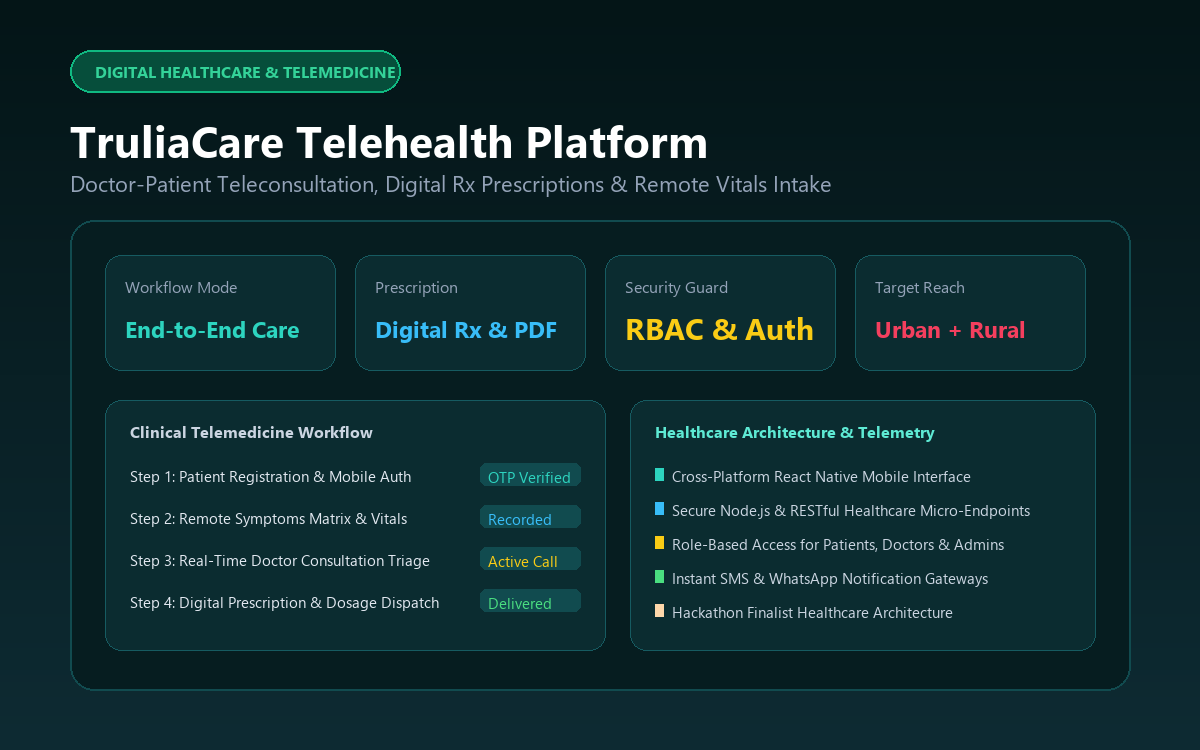
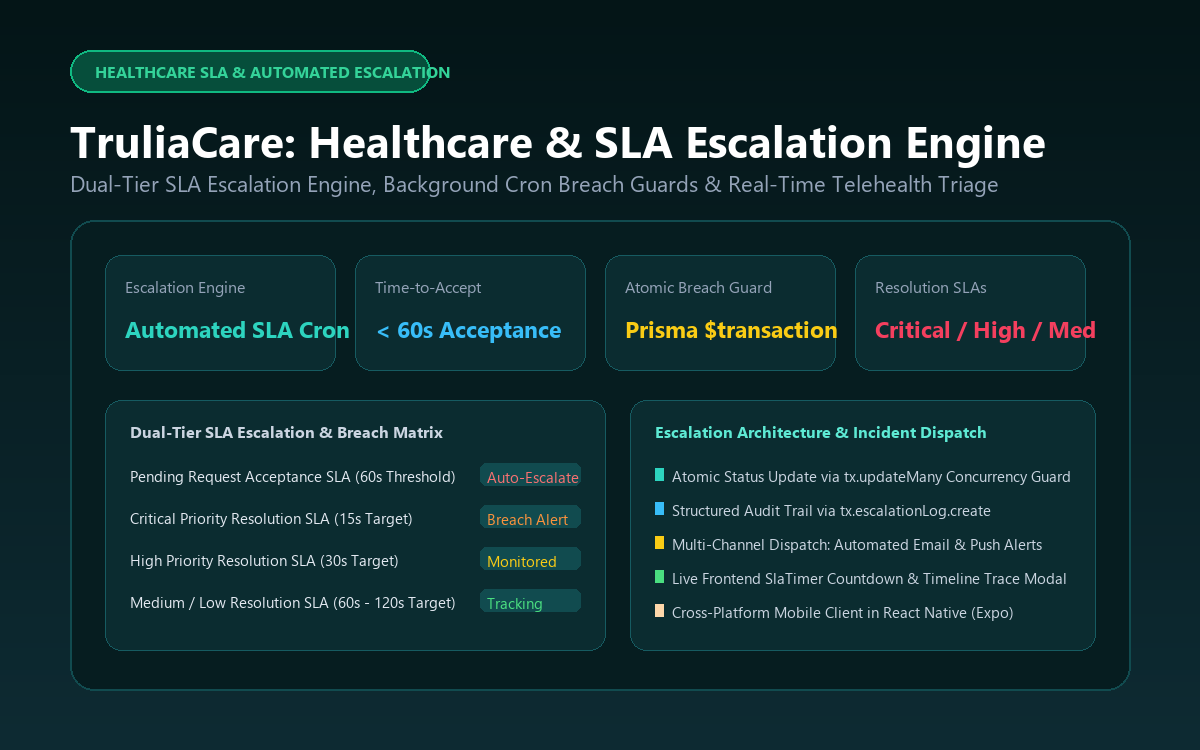
feat(truliacare): showcase automated dual-tier SLA escalation engine and background breach job

diff --git a/frontend/src/pages/ProjectsPage.tsx b/frontend/src/pages/ProjectsPage.tsx
@@ -97,12 +97,12 @@ const REPO_REGISTRY: Record<string, RepoMeta> = {
     image: citywidePhoto,
   },
   TruliaCare_Appathon: {
-    title: 'TruliaCare Telehealth Platform',
-    category: 'Digital Healthcare',
+    title: 'TruliaCare: Telehealth & Automated SLA Escalation Engine',
+    category: 'Healthcare & SLA Escalation',
     tier: 1,
-    description: 'Telehealth consultation and patient monitoring application featuring real-time doctor-patient workflows, medical prescription generation, and appointment triage.',
-    tech: ['React Native', 'TypeScript', 'Node.js', 'REST APIs', 'Healthcare Telemetry'],
-    badge: 'Healthcare App',
+    description: 'Telehealth and emergency response platform featuring an automated dual-tier SLA escalation engine. Runs background cron breach jobs, atomic Prisma $transactions with optimistic concurrency guards, multi-channel email/push dispatch, and live SlaTimer countdown widgets.',
+    tech: ['Dual-Tier SLA Engine', 'Background Cron Jobs', 'Prisma Transactions', 'React Native (Expo)', 'Node.js', 'Audit Logging'],
+    badge: 'Automated Escalation',
     image: truliacarePhoto,
   },
   'Credit-Score-Invisibility-Farmer': {

diff --git a/scripts/create_remaining_thumbnails.py b/scripts/create_remaining_thumbnails.py
@@ -108,7 +108,7 @@ for k, (spec, col) in enumerate(city_specs):
 save_dual(im_city, 'citywide_surveillance')
 
 # ══════════════════════════════════════════════════════════════════
-# 2. TRULIACARE TELEHEALTH PLATFORM
+# 2. TRULIACARE TELEHEALTH & AUTOMATED ESCALATION PLATFORM
 # ══════════════════════════════════════════════════════════════════
 im_trulia = Image.new('RGB', (W, H), color='#041517')
 d_trulia = ImageDraw.Draw(im_trulia)
@@ -120,53 +120,53 @@ for y in range(H):
     b = int(23 + 28 * ratio)
     d_trulia.line([(0, y), (W, y)], fill=(r, g, b))
 
-d_trulia.rounded_rectangle([70, 50, 400, 92], radius=21, fill='#064e3b', outline='#10b981', width=2)
-d_trulia.text((95, 60), 'DIGITAL HEALTHCARE & TELEMEDICINE', fill='#34d399', font=font_badge)
+d_trulia.rounded_rectangle([70, 50, 430, 92], radius=21, fill='#064e3b', outline='#10b981', width=2)
+d_trulia.text((95, 60), 'HEALTHCARE SLA & AUTOMATED ESCALATION', fill='#34d399', font=font_badge)
 
-d_trulia.text((70, 110), 'TruliaCare Telehealth Platform', fill='#ffffff', font=font_title)
-d_trulia.text((70, 168), 'Doctor-Patient Teleconsultation, Digital Rx Prescriptions & Remote Vitals Intake', fill='#94a3b8', font=font_subtitle)
+d_trulia.text((70, 110), 'TruliaCare: Healthcare & SLA Escalation Engine', fill='#ffffff', font=font_title)
+d_trulia.text((70, 168), 'Dual-Tier SLA Escalation Engine, Background Cron Breach Guards & Real-Time Telehealth Triage', fill='#94a3b8', font=font_subtitle)
 
 d_trulia.rounded_rectangle([card_x, card_y, card_x + card_w, card_y + card_h], radius=24, fill='#061d20', outline='#114b4f', width=2)
 
 trulia_kpis = [
-    ('Workflow Mode', 'End-to-End Care', '#2dd4bf'),
-    ('Prescription', 'Digital Rx & PDF', '#38bdf8'),
-    ('Security Guard', 'RBAC & Auth', '#facc15'),
-    ('Target Reach', 'Urban + Rural', '#f43f5e'),
+    ('Escalation Engine', 'Automated SLA Cron', '#2dd4bf'),
+    ('Time-to-Accept', '< 60s Acceptance', '#38bdf8'),
+    ('Atomic Breach Guard', 'Prisma $transaction', '#facc15'),
+    ('Resolution SLAs', 'Critical / High / Med', '#f43f5e'),
 ]
 
 for i, (lbl, val, col) in enumerate(trulia_kpis):
     draw_kpi(d_trulia, card_x, card_y, i, lbl, val, col, bg='#0b2c30', border='#165b61')
 
-# Left Panel: Clinical Workflow Steps
+# Left Panel: Dual-Tier SLA Escalation Matrix
 cx1, cy1, cw1, ch1 = card_x + 35, card_y + 180, 500, 250
 d_trulia.rounded_rectangle([cx1, cy1, cx1 + cw1, cy1 + ch1], radius=16, fill='#0b2c30', outline='#165b61', width=1)
-d_trulia.text((cx1 + 25, cy1 + 20), 'Clinical Telemedicine Workflow', fill='#cbd5e1', font=font_badge)
+d_trulia.text((cx1 + 25, cy1 + 20), 'Dual-Tier SLA Escalation & Breach Matrix', fill='#cbd5e1', font=font_badge)
 
 steps = [
-    ('Step 1: Patient Registration & Mobile Auth', 'OTP Verified', '#2dd4bf'),
-    ('Step 2: Remote Symptoms Matrix & Vitals', 'Recorded', '#38bdf8'),
-    ('Step 3: Real-Time Doctor Consultation Triage', 'Active Call', '#facc15'),
-    ('Step 4: Digital Prescription & Dosage Dispatch', 'Delivered', '#4ade80'),
+    ('Pending Request Acceptance SLA (60s Threshold)', 'Auto-Escalate', '#f87171'),
+    ('Critical Priority Resolution SLA (15s Target)', 'Breach Alert', '#fb923c'),
+    ('High Priority Resolution SLA (30s Target)', 'Monitored', '#facc15'),
+    ('Medium / Low Resolution SLA (60s - 120s Target)', 'Tracking', '#4ade80'),
 ]
 
 for j, (name, status, col) in enumerate(steps):
     yy = cy1 + 65 + j * 42
     d_trulia.text((cx1 + 25, yy), name, fill='#e2e8f0', font=font_small)
     d_trulia.rounded_rectangle([cx1 + 375, yy - 2, cx1 + 475, yy + 20], radius=6, fill='#114b4f')
-    d_trulia.text((cx1 + 383, yy + 1), status, fill=col, font=font_small)
+    d_trulia.text((cx1 + 382, yy + 1), status, fill=col, font=font_small)
 
-# Right Panel: Architecture
+# Right Panel: Architecture & Incident Dispatch
 cx2, cy2, cw2, ch2 = card_x + 560, card_y + 180, 465, 250
 d_trulia.rounded_rectangle([cx2, cy2, cx2 + cw2, cy2 + ch2], radius=16, fill='#0b2c30', outline='#165b61', width=1)
-d_trulia.text((cx2 + 25, cy2 + 20), 'Healthcare Architecture & Telemetry', fill='#5eead4', font=font_badge)
+d_trulia.text((cx2 + 25, cy2 + 20), 'Escalation Architecture & Incident Dispatch', fill='#5eead4', font=font_badge)
 
 trulia_specs = [
-    ('Cross-Platform React Native Mobile Interface', '#2dd4bf'),
-    ('Secure Node.js & RESTful Healthcare Micro-Endpoints', '#38bdf8'),
-    ('Role-Based Access for Patients, Doctors & Admins', '#facc15'),
-    ('Instant SMS & WhatsApp Notification Gateways', '#4ade80'),
-    ('Hackathon Finalist Healthcare Architecture', '#fed7aa'),
+    ('Atomic Status Update via tx.updateMany Concurrency Guard', '#2dd4bf'),
+    ('Structured Audit Trail via tx.escalationLog.create', '#38bdf8'),
+    ('Multi-Channel Dispatch: Automated Email & Push Alerts', '#facc15'),
+    ('Live Frontend SlaTimer Countdown & Timeline Trace Modal', '#4ade80'),
+    ('Cross-Platform Mobile Client in React Native (Expo)', '#fed7aa'),
 ]
 
 for k, (spec, col) in enumerate(trulia_specs):
